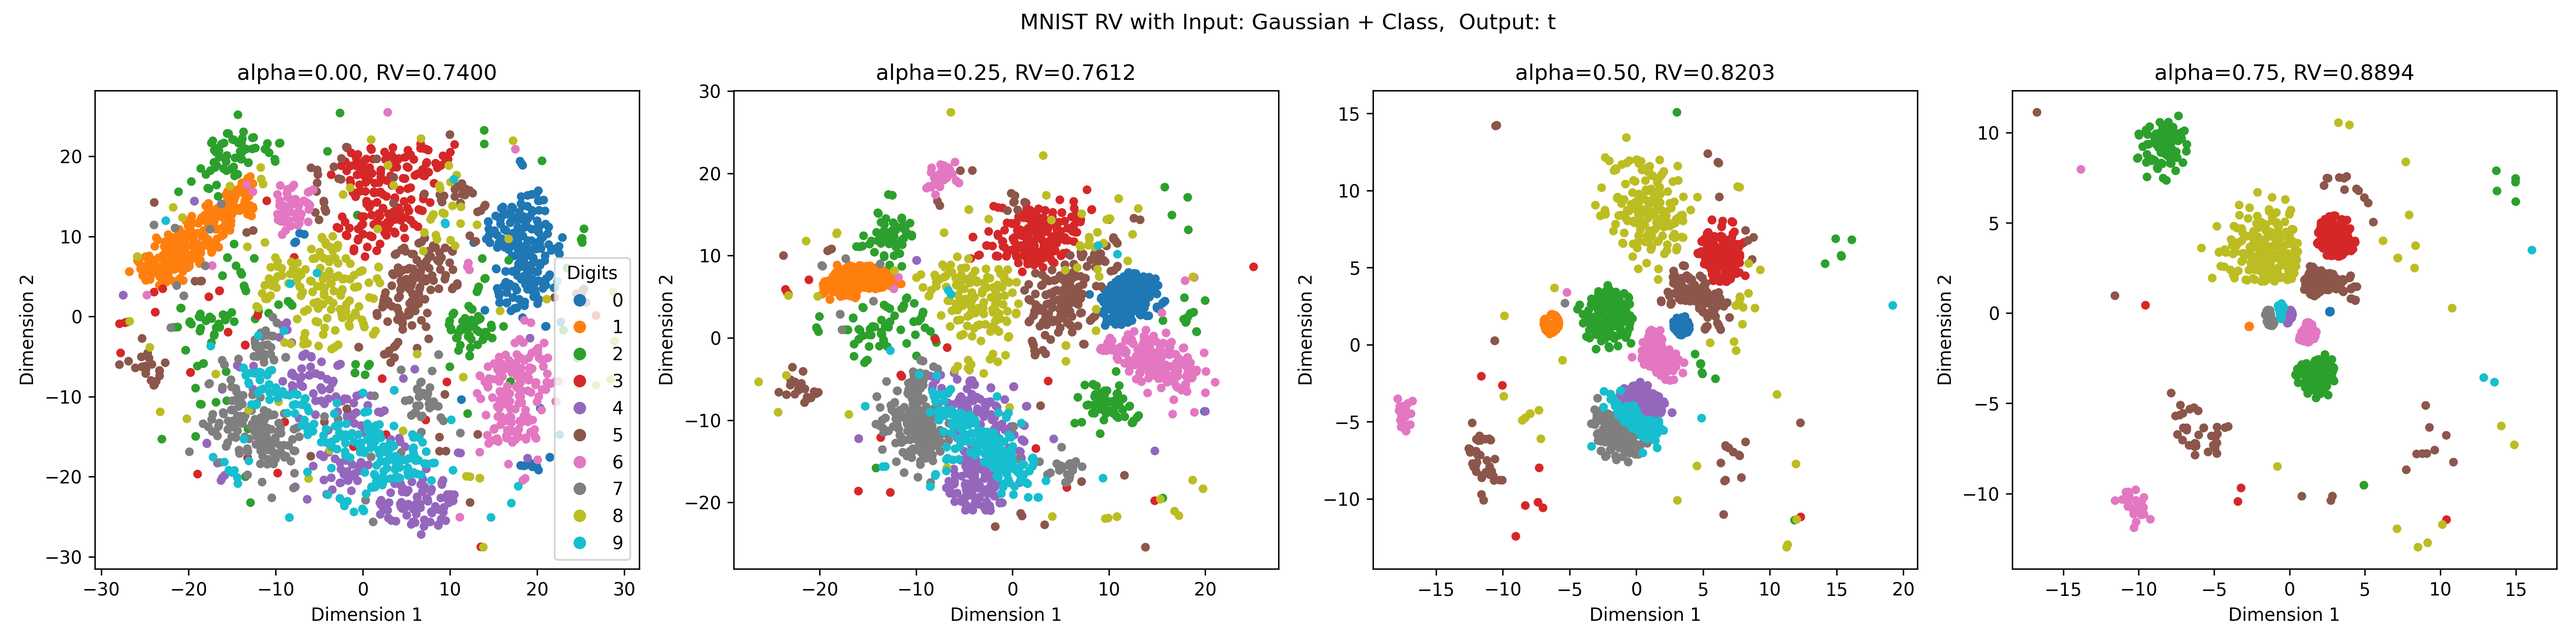
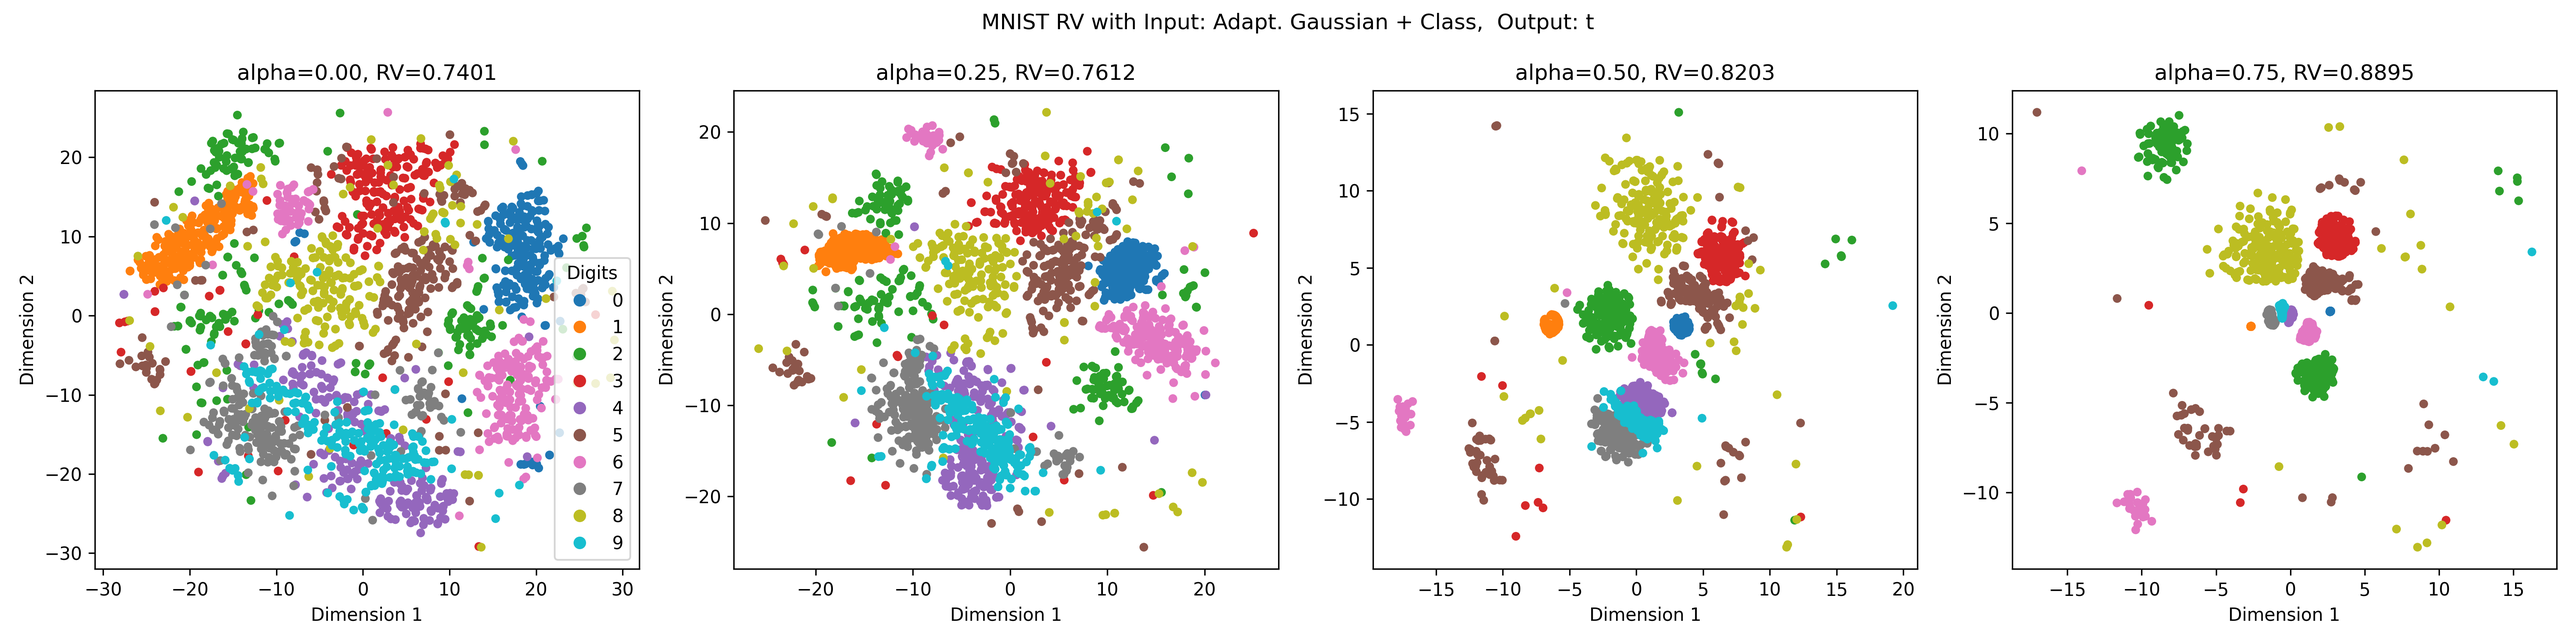
update results

diff --git a/mnist_combination.py b/mnist_combination.py
@@ -54,7 +54,7 @@ K_lin_in = compute_linear_kernel_torch(mnist_images_tensor,
                                        param=None, 
                                        weights=weights, device=device)
 K_geo_in_cpu = compute_geodesic_kernel(mnist_images, 
-                                       param=10,
+                                       param=15,
                                        weights=weights.to('cpu').numpy())
 K_geo_in = torch.tensor(K_geo_in_cpu, dtype=torch.float32).to(device)
 K_lle_in = compute_lle_kernel_torch(mnist_images_tensor, 
@@ -66,7 +66,7 @@ K_gauss_in = compute_gaussP_kernel_torch(mnist_images_tensor,
 
 kernels_in = [K_lin_in, K_geo_in, K_lle_in, K_gauss_in]
 
-kernel_in_names = ['Linear', 'Geodesic', 'LLE', 'Gaussian']
+kernel_in_names = ['Linear', 'Geodesic', 'LLE', 'Adapt. Gaussian']
 
 # All output kernel functions to test
 kernel_out_functions = [compute_linear_kernel_torch,
@@ -74,7 +74,7 @@ kernel_out_functions = [compute_linear_kernel_torch,
                         compute_t_kernel_torch,
                         compute_cosine_kernel_torch]
 kernel_out_params = [None, 1, 1, None]
-kernel_out_names = ['Linear', 'RBF', 't', 'Cosine']
+kernel_out_names = ['Linear', 'RBF', 'Student', 'Cosine']
 
 # --------------------------------------------------------------
 # Computations of the combinations
@@ -127,5 +127,5 @@ for i in range(4):
         ax.set_xticks([])
         ax.set_yticks([])
 plt.tight_layout()
-plt.savefig("results/mnist/mnist_combinations2.png", dpi=300)
+plt.savefig("results/mnist/mnist_combinations.png", dpi=300)
                                                     

diff --git a/local_functions.py b/local_functions.py
@@ -77,7 +77,8 @@ def rv_ascent(K_obj, weights, dim=2, lr=0.1,
         Scal_Obj_Y = np.trace(K_obj @ K_Y)
         
         RV = Scal_Obj_Y / (Norm_obj * Norm_Y)
-        M = 1/(Norm_obj * Norm_Y) * (K_obj - Scal_Obj_Y / Norm_Y**2 * K_Y)
+        M = 1/(Norm_obj * Norm_Y) \
+            * Q_mat @ (K_obj - Scal_Obj_Y / Norm_Y**2 * K_Y) @ Q_mat.T
         grad = 2 * M @ Y
         
         Y += lr * grad

diff --git a/evo_mnist_tsne.py b/evo_mnist_tsne.py
@@ -109,7 +109,7 @@ for i, alpha in enumerate(alpha_vec):
     ax.set_ylabel("Dimension 2")
     if i == 0:
         ax.legend(*scatter.legend_elements(), title="Digits")
-plt.suptitle("MNIST RV with Input: Gaussian + Class,  Output: t")
+plt.suptitle("MNIST RV with Input: Adapt. Gaussian + Class,  Output: t")
 plt.tight_layout()
 plt.savefig("results/mnist/evo_tsne.png", dpi=300)
 plt.show()
